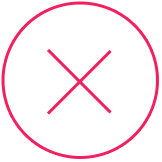
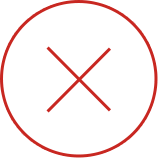
changed

Changed region(s): [[0.0, 0.0, 1.0, 1.0], [0.2767, 0.2767, 0.7044, 0.7044]]

diff --git a/gameBoxEx/OtherViewCtrl/Share/cells/RH_ShareAnnounceView.m b/gameBoxEx/OtherViewCtrl/Share/cells/RH_ShareAnnounceView.m
@@ -76,6 +76,9 @@
         }else if ([THEMEV3 isEqualToString:@"black"]){
             //shaole
             [self.cancelButton setImage:ImageWithName(@"home_announce_close_black") forState:UIControlStateNormal];
+        }else if ([THEMEV3 isEqualToString:@"orange"]){
+            //shaole
+            [self.cancelButton setImage:ImageWithName(@"home_announce_close_orange") forState:UIControlStateNormal];
         }else{
             [self.cancelButton setImage:ImageWithName(@"home_announce_close_default") forState:UIControlStateNormal];
         }

diff --git a/gameBoxEx/TabBarViewCtrl/firstPage/RH_BasicAlertView.m b/gameBoxEx/TabBarViewCtrl/firstPage/RH_BasicAlertView.m
@@ -78,6 +78,9 @@
         }else if ([THEMEV3 isEqualToString:@"black"]){
             //shaole
             [self.cancelButton setImage:ImageWithName(@"home_announce_close_black") forState:UIControlStateNormal];
+        }else if ([THEMEV3 isEqualToString:@"orange"]){
+            //shaole
+            [self.cancelButton setImage:ImageWithName(@"home_announce_close_orange") forState:UIControlStateNormal];
         }else{
             [self.cancelButton setImage:ImageWithName(@"home_announce_close_default") forState:UIControlStateNormal];
         }

diff --git a/gameBoxEx/OtherViewCtrl/MineSafetyCenter/RH_StaticAlertView.m b/gameBoxEx/OtherViewCtrl/MineSafetyCenter/RH_StaticAlertView.m
@@ -53,6 +53,9 @@
         }else if ([THEMEV3 isEqualToString:@"black"]){
             [self.cancelButton setImage:ImageWithName(@"home_announce_close_black") forState:UIControlStateNormal];
             
+        }else if ([THEMEV3 isEqualToString:@"orange"]){
+            //shaole
+            [self.cancelButton setImage:ImageWithName(@"home_announce_close_orange") forState:UIControlStateNormal];
         }else{
             [self.cancelButton setImage:ImageWithName(@"home_announce_close_default") forState:UIControlStateNormal];
         }

diff --git a/gameBoxEx/TabBarViewCtrl/depositePage/cell/RH_DepositSuccessAlertView.m b/gameBoxEx/TabBarViewCtrl/depositePage/cell/RH_DepositSuccessAlertView.m
@@ -93,6 +93,9 @@
         }else if ([THEMEV3 isEqualToString:@"black"]){
             [self.cancelButton setImage:ImageWithName(@"home_announce_close_black") forState:UIControlStateNormal];
             
+        }else if ([THEMEV3 isEqualToString:@"orange"]){
+            //shaole
+            [self.cancelButton setImage:ImageWithName(@"home_announce_close_orange") forState:UIControlStateNormal];
         }else{
             [self.cancelButton setImage:ImageWithName(@"home_announce_close_default") forState:UIControlStateNormal];
         }

diff --git a/gameBoxEx/TabBarViewCtrl/firstPage/cells/RH_AdvertisementView.m b/gameBoxEx/TabBarViewCtrl/firstPage/cells/RH_AdvertisementView.m
@@ -74,6 +74,9 @@
         }else if ([THEMEV3 isEqualToString:@"black"]){
             //shaole
             [cancelButton setImage:ImageWithName(@"home_announce_close_black") forState:UIControlStateNormal];
+        }else if ([THEMEV3 isEqualToString:@"orange"]){
+            //shaole
+            [cancelButton setImage:ImageWithName(@"home_announce_close_orange") forState:UIControlStateNormal];
         }else{
             [cancelButton setImage:ImageWithName(@"home_announce_close_default") forState:UIControlStateNormal];
         }
